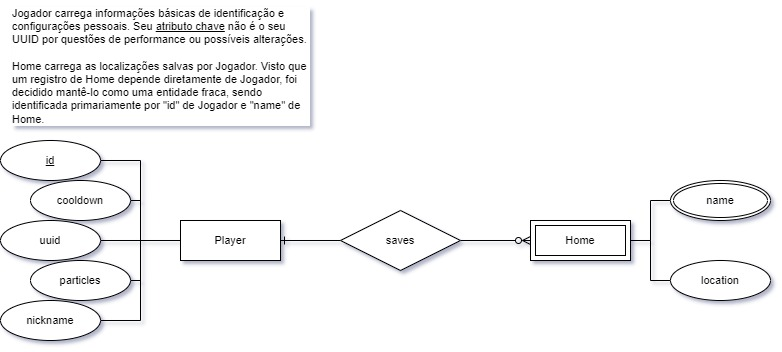
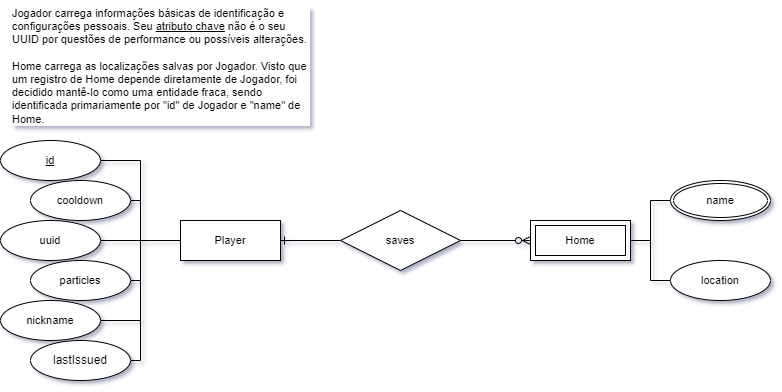
feat: add lastIssued attribute to PlayerEntity

diff --git a/mc-home/src/main/java/com/ethamorim/home/persistence/model/PlayerEntity.java b/mc-home/src/main/java/com/ethamorim/home/persistence/model/PlayerEntity.java
@@ -3,6 +3,7 @@ package com.ethamorim.home.persistence.model;
 import jakarta.persistence.*;
 import org.hibernate.annotations.NaturalId;
 
+import java.time.Instant;
 import java.util.UUID;
 
 /**
@@ -45,12 +46,20 @@ public class PlayerEntity {
      * O intervalo em milissegundos no qual o jogador
      * pode utilizar o comando home novamente.
      */
-    short cooldown;
+    int cooldown;
 
     /**
      * Ativa partículas ao se teletransportar caso `true`
      */
     boolean particlesActive;
+
+    /**
+     * Determina a última vez que o jogador usou
+     * o comando de /home.
+     * Usado em conjunto com `cooldown` para determinar
+     * se o jogador pode usar o comando novamente.
+     */
+    Instant lastIssued;
 
     /*
         Getters e setters
@@ -75,11 +84,11 @@ public class PlayerEntity {
         this.nickname = nickname;
     }
 
-    public short getCooldown() {
+    public int getCooldown() {
         return cooldown;
     }
 
-    public void setCooldown(short cooldown) {
+    public void setCooldown(int cooldown) {
         this.cooldown = cooldown;
     }
 
@@ -89,5 +98,13 @@ public class PlayerEntity {
 
     public void setParticlesActive(boolean particlesActive) {
         this.particlesActive = particlesActive;
+    }
+
+    public Instant getLastIssued() {
+        return lastIssued;
+    }
+
+    public void setLastIssued(Instant lastIssued) {
+        this.lastIssued = lastIssued;
     }
 }

diff --git a/mc-home/src/main/java/com/ethamorim/home/persistence/model/HomeEntity.java b/mc-home/src/main/java/com/ethamorim/home/persistence/model/HomeEntity.java
@@ -51,6 +51,14 @@ public class HomeEntity {
     /*
         Getters e setters
      */
+    public int getId() {
+        return id;
+    }
+
+    public void setId(int id) {
+        this.id = id;
+    }
+
     public String getName() {
         return name;
     }
